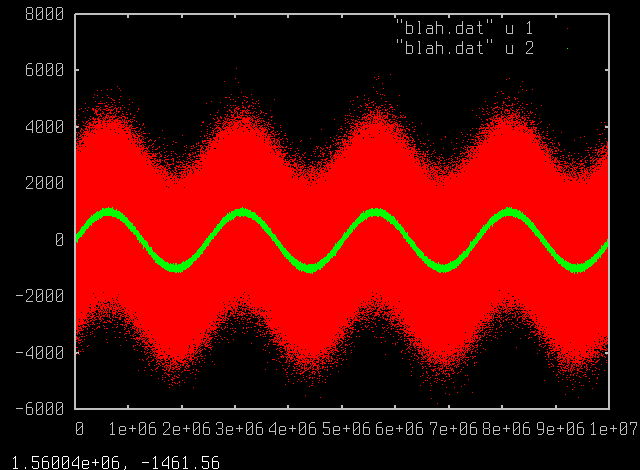
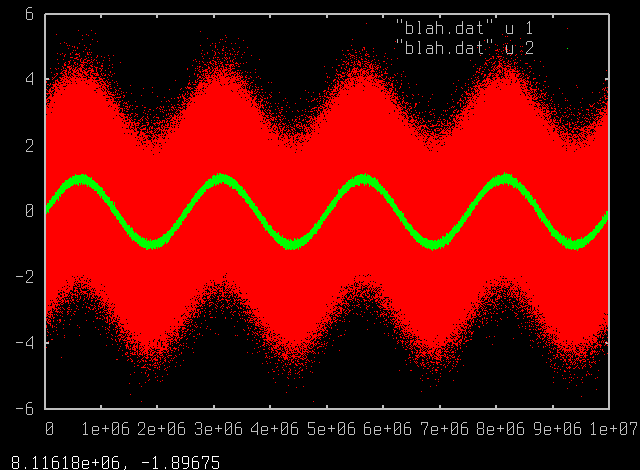
no need to use big numbers to prove

diff --git a/sma.cc b/sma.cc
@@ -99,7 +99,7 @@ int main()
 	std::vector<float> input(num_samples), output1(num_samples), output2(num_samples), output3(num_samples), output4(num_samples);
 	const int window_length = 500;
 	for (size_t i = 0; i < input.size(); ++i)
-		input[i] = 1000.0f * (sin(i * 4.0f * 2.0f * M_PI / num_samples) + myrand());
+		input[i] = sin(i * 4.0f * 2.0f * M_PI / num_samples) + myrand();
 	{
 		SMA1<float, window_length> sma1;
 		auto start = std::chrono::system_clock::now();
